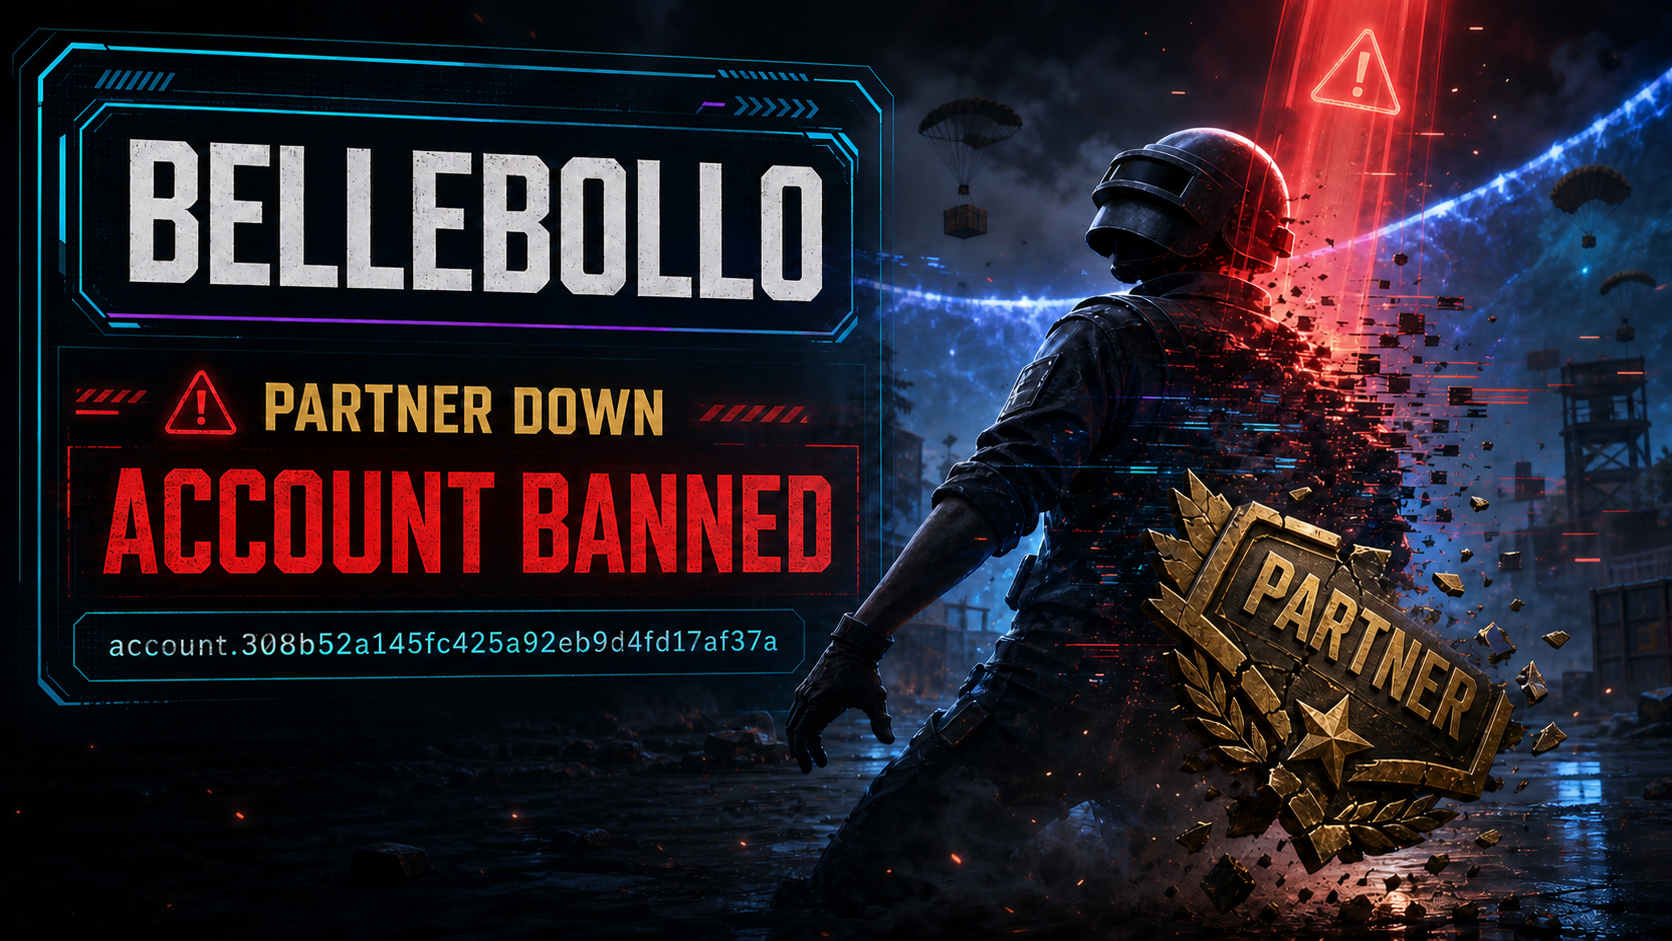
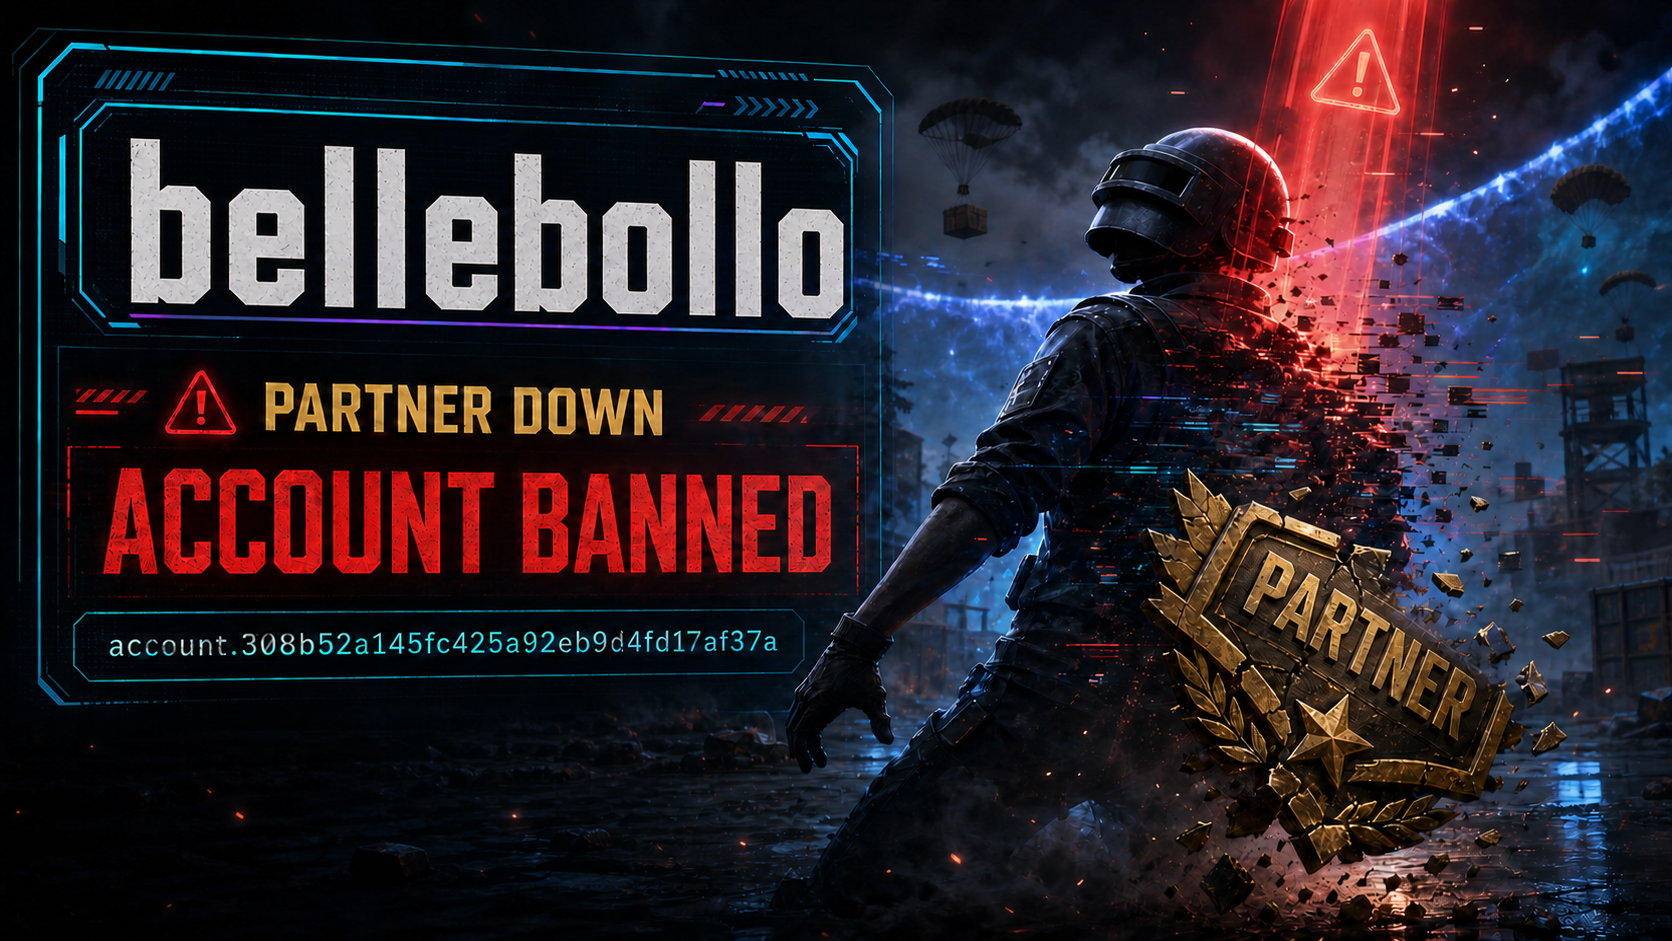
Correct bellebollo ban card casing

diff --git a/index.html b/index.html
@@ -24,7 +24,7 @@
   <script src="js/theme.js"></script>
   <link rel="stylesheet" href="css/themes.css">
   <link rel="stylesheet" href="css/site-layout.css?v=20260827a">
-  <script defer src="js/ban-card.js?v=20260827a"></script>
+  <script defer src="js/ban-card.js?v=20260827b"></script>
   <script defer src="js/watchlist-store.js?v=20260822a"></script>
   <script defer src="js/main.js?v=20260827b"></script>
   <script defer src="js/i18n.js?v=20251228"></script>

diff --git a/js/ban-card.js b/js/ban-card.js
@@ -6,8 +6,8 @@
   const CARD_HEIGHT = 675;
   const CUSTOM_CARDS = {
     "account.308b52a145fc425a92eb9d4fd17af37a": {
-      image: "img/ban-cards/bellebollo-account-banned.png",
-      filename: "PUBGBanChecker_Bellebollo_AccountBanned.png"
+      image: "img/ban-cards/bellebollo-account-banned.png?v=20260827b",
+      filename: "PUBGBanChecker_bellebollo_AccountBanned.png"
     }
   };
   const TIER_CONFIG = {
